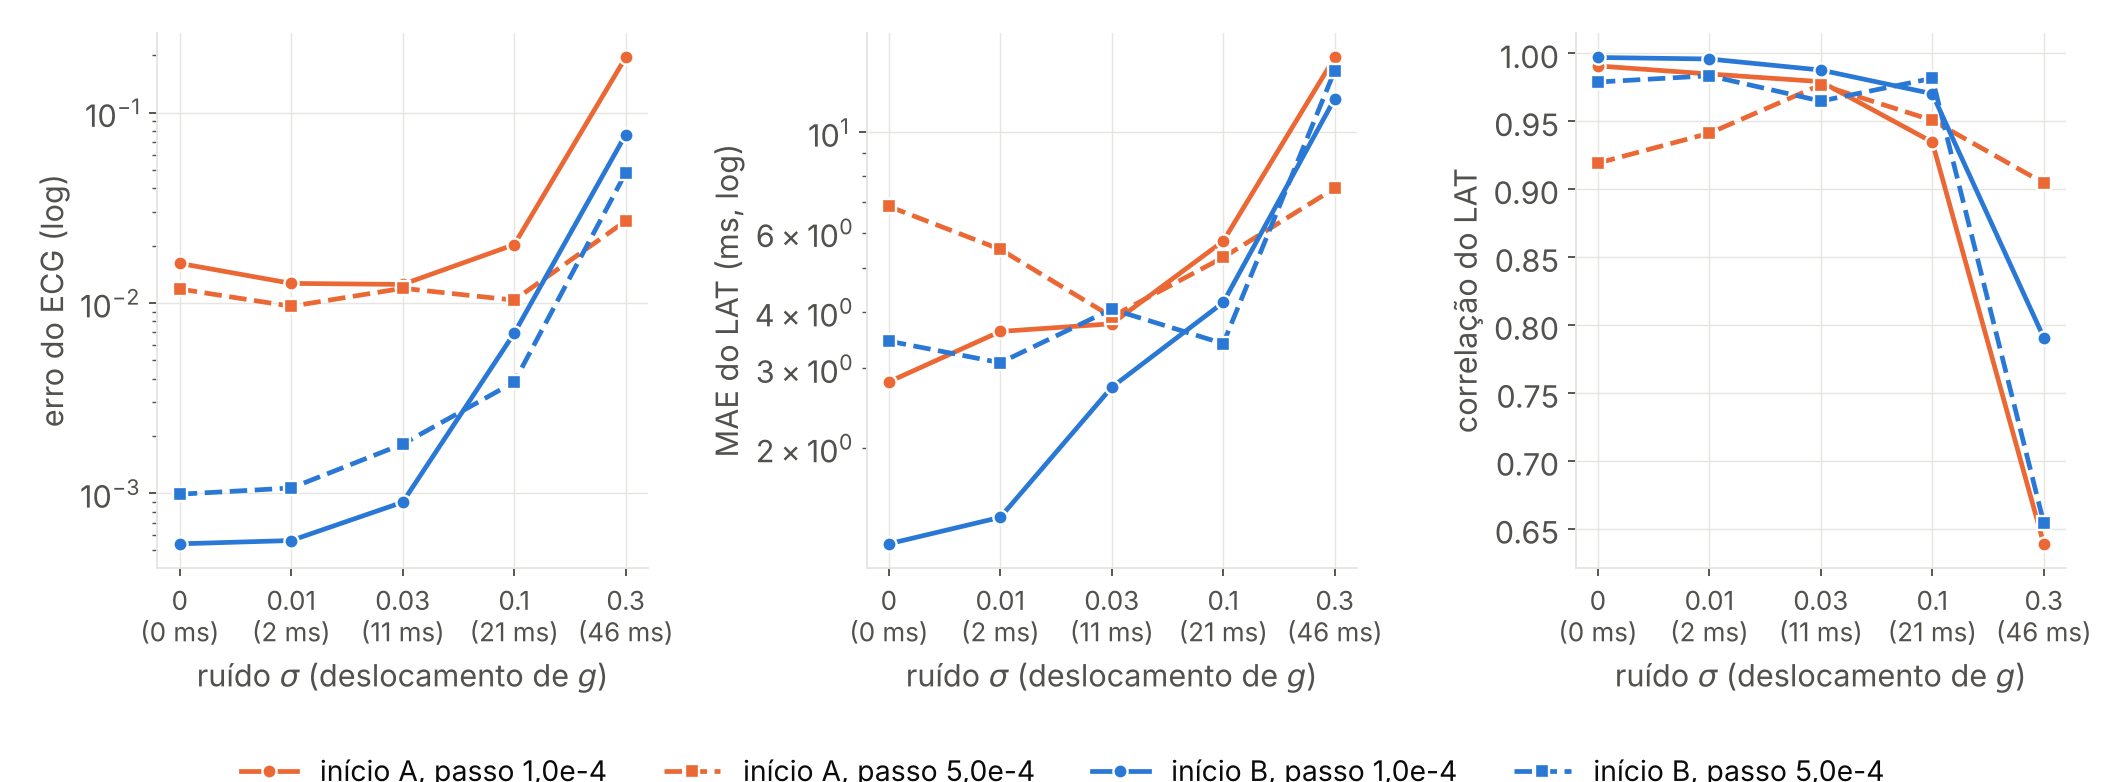
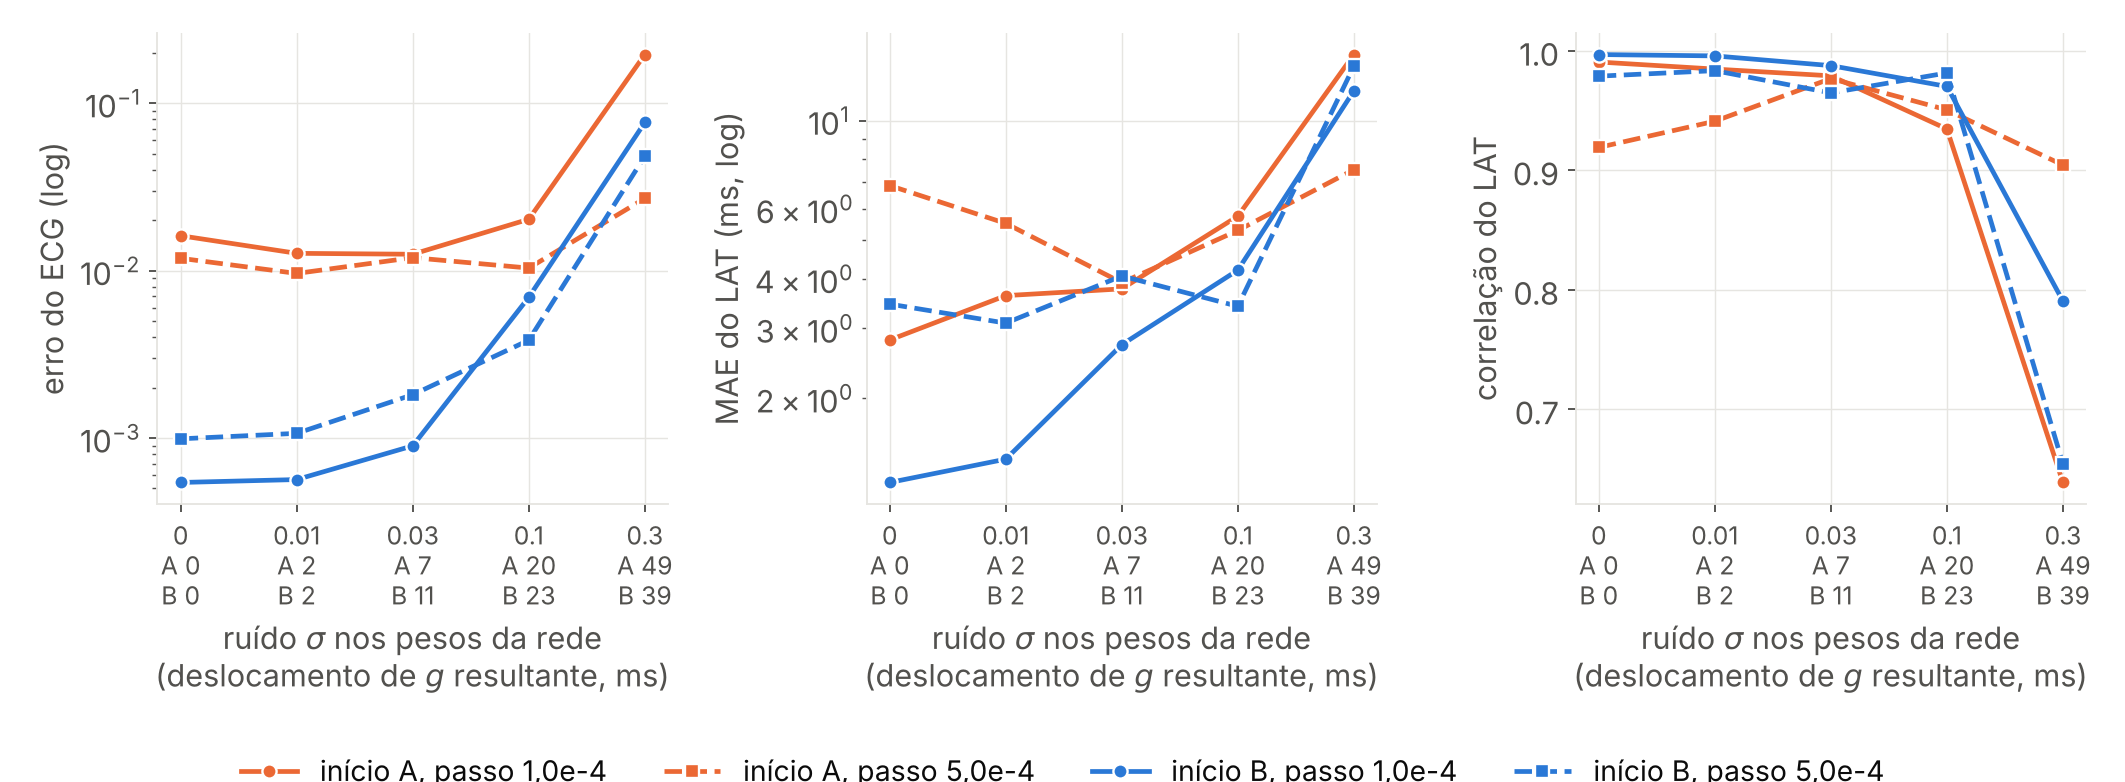
metodo1 deck: noise figure axis is weight noise; per-start g shift under each sigma
Claude-Session: https://claude.ai/code/session_0165HnNHC4nJH5gTAFXrQxAe

diff --git a/slides/2026-10_metodo1/scripts/deck_figs.py b/slides/2026-10_metodo1/scripts/deck_figs.py
@@ -130,9 +130,12 @@ def med(tag, lr, s, ph, key):
     return float(np.median(v)) if v else np.nan
 
 
-shift = {s: np.median([r['start']['dg_dom'] for r in R if r['sigma'] == s]) for s in SIG}
+# what the weight noise does to g: rms change of the start network's g on the dominant
+# candidates, per start (the same sigma moves A and B by different amounts)
+shift = {(t, s): np.median([r['start']['dg_dom'] for r in R if r['sigma'] == s and r['tag'] == t])
+         for t in ('A', 'B') for s in SIG}
 x = np.arange(len(SIG))
-xt = [f'{s:g}\n({shift[s]:.0f} ms)' for s in SIG]
+xt = [f"{s:g}\nA {shift[('A', s)]:.0f}\nB {shift[('B', s)]:.0f}" for s in SIG]
 fig, axs = plt.subplots(1, 3, figsize=(12.5, 4.6))
 STY = {(1e-4, 'A'): (ORANGE, '-', 'o'), (5e-4, 'A'): (ORANGE, '--', 's'),
        (1e-4, 'B'): (BLUE, '-', 'o'), (5e-4, 'B'): (BLUE, '--', 's')}
@@ -143,8 +146,8 @@ for ax, key, yl, lg in ((axs[0], 'ecg', 'erro do ECG (log)', True), (axs[1], 'ma
             c, ls, mk = STY[(lr, tag)]
             ax.plot(x, [med(tag, lr, s, 'end', key) for s in SIG], ls, color=c, marker=mk, lw=2, ms=6,
                     mec='white', mew=1, label=f'início {tag}, passo {fmt_e(lr)}')
-    ax.set_xticks(x); ax.set_xticklabels(xt, fontsize=11)
-    ax.set_xlabel('ruído $\\sigma$ (deslocamento de $g$)'); ax.set_ylabel(yl)
+    ax.set_xticks(x); ax.set_xticklabels(xt, fontsize=10.5)
+    ax.set_xlabel('ruído $\\sigma$ nos pesos da rede\n(deslocamento de $g$ resultante, ms)'); ax.set_ylabel(yl)
     ax.grid(color=GRID, lw=.6)
     for s_ in ('top', 'right'):
         ax.spines[s_].set_visible(False)

diff --git a/slides/2026-10_metodo1/sections/04_lat_primeiro.tex b/slides/2026-10_metodo1/sections/04_lat_primeiro.tex
@@ -50,8 +50,8 @@
   \centering
   \includegraphics[width=\linewidth]{hoje_ruido.png}\par
   \smallskip
-  {\scriptsize Ruído $\sigma$ nos pesos da rede de início, o mesmo em A e B; entre parênteses, quanto ele desloca $g$.
-  Mediana de 3 sorteios.}
+  {\scriptsize Ruído $\sigma$ (vezes o desvio de cada tensor) nos pesos da rede de início, os mesmos sorteios em A e B.
+  Sob cada $\sigma$: o deslocamento resultante de $g$ em A e em B (rms nos candidatos dominantes, ms). Mediana de 3 sorteios.}
 \end{frame}
 
 \begin{frame}{Teste com $g$ conhecido: alvo gerado pelo próprio Método 1}
